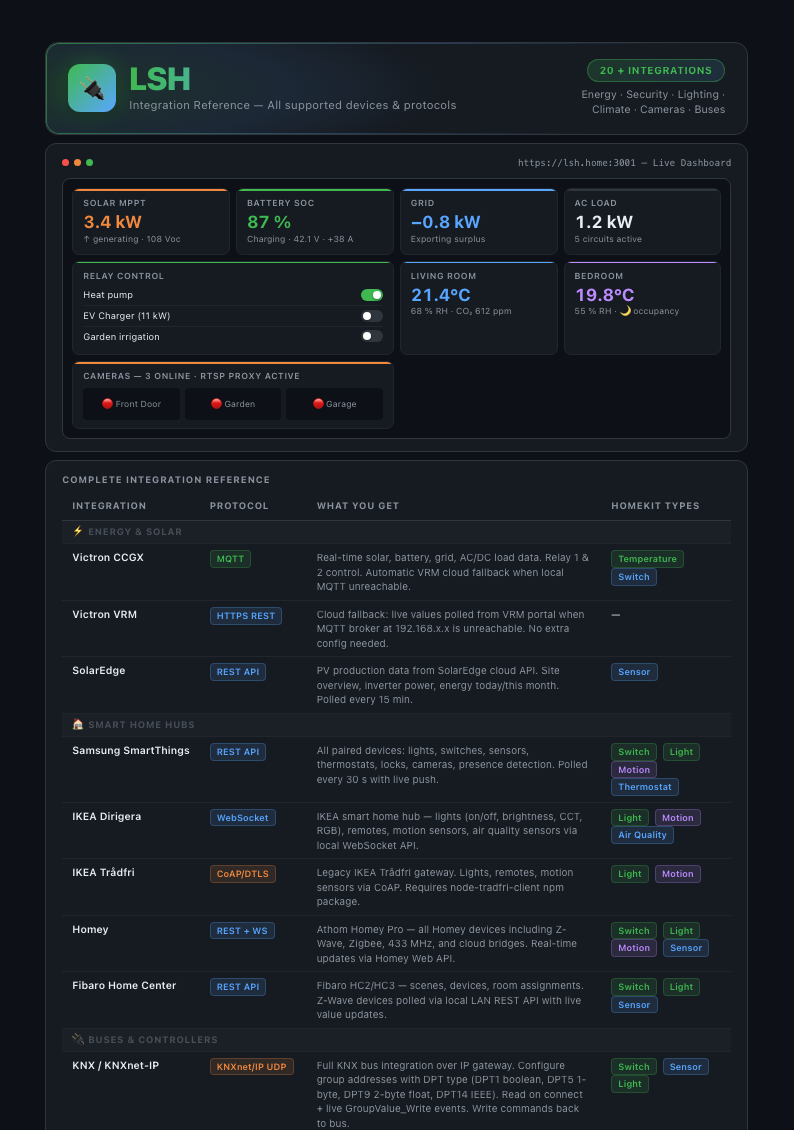
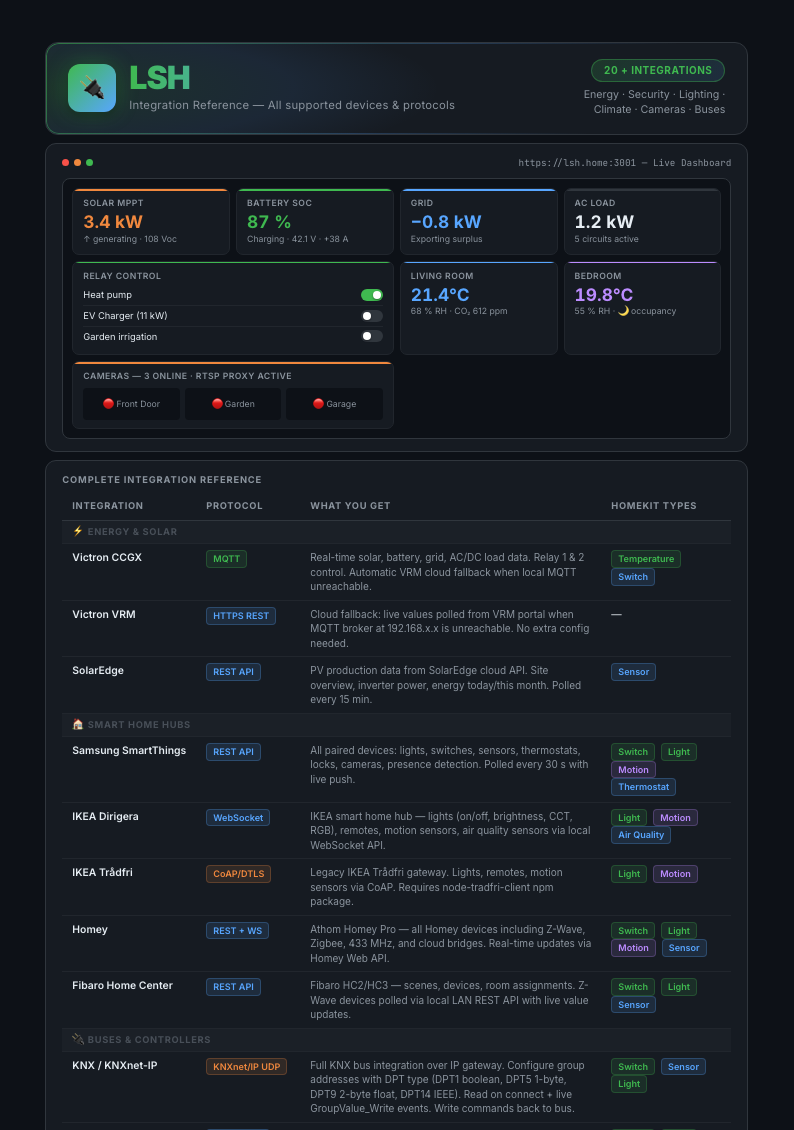
Add SWOT analysis page to leaflet PDF (page 4 of 4)

diff --git a/leaflet/lsh-leaflet.html b/leaflet/lsh-leaflet.html
@@ -907,7 +907,192 @@
 
   <div class="footer">
     <div><div class="footer-brand">LSH</div><p>Local Smart Home Platform</p></div>
-    <p style="font-size:7pt;color:var(--muted);text-align:center;">Open integration platform · Node.js 18+ · Raspberry Pi 4 / Linux<br>Page 3 of 3</p>
+    <p style="font-size:7pt;color:var(--muted);text-align:center;">Open integration platform · Node.js 18+ · Raspberry Pi 4 / Linux<br>Page 3 of 4</p>
+    <div class="footer-right">
+      <a href="mailto:[email redacted]">[email redacted]</a><br>
+      <span style="font-size:6.5pt;color:var(--dim);">© 2026 LSH Local Smart Home</span>
+    </div>
+  </div>
+
+</div>
+
+<!-- ════════════════════════════════════ PAGE 4 — SWOT ════════════════ -->
+<div class="page">
+
+  <div class="header">
+    <div class="logo-group">
+      <div class="logo-icon">📊</div>
+      <div class="logo-text">
+        <h1>LSH</h1>
+        <p>Strategic Analysis — SWOT</p>
+      </div>
+    </div>
+    <div class="header-right">
+      <div class="header-badge">Business Analysis</div>
+      <p class="header-tagline">Strengths · Weaknesses · Opportunities · Threats</p>
+    </div>
+  </div>
+
+  <!-- SWOT grid -->
+  <div style="display:grid;grid-template-columns:1fr 1fr;gap:9px;flex:1;">
+
+    <!-- STRENGTHS -->
+    <div style="background:var(--surf);border:1px solid var(--border);border-radius:12px;padding:15px 17px;position:relative;overflow:hidden;">
+      <div style="position:absolute;inset:0;border-radius:12px;padding:1px;background:linear-gradient(135deg,rgba(63,185,80,.6) 0%,rgba(63,185,80,.1) 60%,transparent 80%);-webkit-mask:linear-gradient(#fff 0 0) content-box,linear-gradient(#fff 0 0);-webkit-mask-composite:xor;mask-composite:exclude;pointer-events:none;"></div>
+      <div style="display:flex;align-items:center;gap:8px;margin-bottom:12px;">
+        <div style="width:30px;height:30px;border-radius:8px;background:linear-gradient(135deg,#3fb950,#1a8c40);display:flex;align-items:center;justify-content:center;font-size:16px;flex-shrink:0;">💪</div>
+        <div>
+          <div style="font-size:11pt;font-weight:800;color:var(--green);letter-spacing:-.3px;">Strengths</div>
+          <div style="font-size:7pt;color:var(--muted);text-transform:uppercase;letter-spacing:.06em;">Internal · Positive</div>
+        </div>
+      </div>
+      <div style="display:flex;flex-direction:column;gap:6px;">
+        <div style="display:flex;gap:8px;align-items:flex-start;padding:6px 8px;background:rgba(63,185,80,.06);border-radius:7px;border:1px solid rgba(63,185,80,.12);">
+          <span style="color:var(--green);font-size:10pt;flex-shrink:0;line-height:1.3;">✦</span>
+          <div><div style="font-size:8pt;font-weight:700;margin-bottom:1px;">Local-first, zero cloud dependency</div><div style="font-size:7.2pt;color:var(--muted);line-height:1.4;">All data stays on LAN. MQTT runs directly to hardware — no relay server, no account, works during internet outages.</div></div>
+        </div>
+        <div style="display:flex;gap:8px;align-items:flex-start;padding:6px 8px;background:rgba(63,185,80,.06);border-radius:7px;border:1px solid rgba(63,185,80,.12);">
+          <span style="color:var(--green);font-size:10pt;flex-shrink:0;line-height:1.3;">✦</span>
+          <div><div style="font-size:8pt;font-weight:700;margin-bottom:1px;">20+ integrations in a single process</div><div style="font-size:7.2pt;color:var(--muted);line-height:1.4;">~120 MB RAM footprint. No microservice sprawl, no Docker Compose with 12 containers — just <code>node server.js</code>.</div></div>
+        </div>
+        <div style="display:flex;gap:8px;align-items:flex-start;padding:6px 8px;background:rgba(63,185,80,.06);border-radius:7px;border:1px solid rgba(63,185,80,.12);">
+          <span style="color:var(--green);font-size:10pt;flex-shrink:0;line-height:1.3;">✦</span>
+          <div><div style="font-size:8pt;font-weight:700;margin-bottom:1px;">Victron Energy depth</div><div style="font-size:7.2pt;color:var(--muted);line-height:1.4;">Solar, battery SoC, grid, relay control — uniquely positioned for off-grid and solar installations. SolarEdge overlay included.</div></div>
+        </div>
+        <div style="display:flex;gap:8px;align-items:flex-start;padding:6px 8px;background:rgba(63,185,80,.06);border-radius:7px;border:1px solid rgba(63,185,80,.12);">
+          <span style="color:var(--green);font-size:10pt;flex-shrink:0;line-height:1.3;">✦</span>
+          <div><div style="font-size:8pt;font-weight:700;margin-bottom:1px;">Native Apple HomeKit bridge</div><div style="font-size:7.2pt;color:var(--muted);line-height:1.4;">Every sensor, switch, and camera auto-exposed. Unlimited accessories — survives restarts without re-pairing.</div></div>
+        </div>
+        <div style="display:flex;gap:8px;align-items:flex-start;padding:6px 8px;background:rgba(63,185,80,.06);border-radius:7px;border:1px solid rgba(63,185,80,.12);">
+          <span style="color:var(--green);font-size:10pt;flex-shrink:0;line-height:1.3;">✦</span>
+          <div><div style="font-size:8pt;font-weight:700;margin-bottom:1px;">Protocol breadth</div><div style="font-size:7.2pt;color:var(--muted);line-height:1.4;">MQTT, KNXnet/IP, Modbus TCP, REST, WebSocket, RTSP — standard protocols only, no proprietary SDKs.</div></div>
+        </div>
+        <div style="display:flex;gap:8px;align-items:flex-start;padding:6px 8px;background:rgba(63,185,80,.06);border-radius:7px;border:1px solid rgba(63,185,80,.12);">
+          <span style="color:var(--green);font-size:10pt;flex-shrink:0;line-height:1.3;">✦</span>
+          <div><div style="font-size:8pt;font-weight:700;margin-bottom:1px;">Settings UI — no YAML required</div><div style="font-size:7.2pt;color:var(--muted);line-height:1.4;">All integrations configured via browser forms with live connectivity tests. KNX group addresses, SmartBob topics, FFmpeg proxy — all point-and-click.</div></div>
+        </div>
+      </div>
+    </div>
+
+    <!-- WEAKNESSES -->
+    <div style="background:var(--surf);border:1px solid var(--border);border-radius:12px;padding:15px 17px;position:relative;overflow:hidden;">
+      <div style="position:absolute;inset:0;border-radius:12px;padding:1px;background:linear-gradient(135deg,rgba(248,81,73,.5) 0%,rgba(248,81,73,.1) 60%,transparent 80%);-webkit-mask:linear-gradient(#fff 0 0) content-box,linear-gradient(#fff 0 0);-webkit-mask-composite:xor;mask-composite:exclude;pointer-events:none;"></div>
+      <div style="display:flex;align-items:center;gap:8px;margin-bottom:12px;">
+        <div style="width:30px;height:30px;border-radius:8px;background:linear-gradient(135deg,#f85149,#a01c19);display:flex;align-items:center;justify-content:center;font-size:16px;flex-shrink:0;">⚠️</div>
+        <div>
+          <div style="font-size:11pt;font-weight:800;color:var(--red);letter-spacing:-.3px;">Weaknesses</div>
+          <div style="font-size:7pt;color:var(--muted);text-transform:uppercase;letter-spacing:.06em;">Internal · Negative</div>
+        </div>
+      </div>
+      <div style="display:flex;flex-direction:column;gap:6px;">
+        <div style="display:flex;gap:8px;align-items:flex-start;padding:6px 8px;background:rgba(248,81,73,.06);border-radius:7px;border:1px solid rgba(248,81,73,.12);">
+          <span style="color:var(--red);font-size:10pt;flex-shrink:0;line-height:1.3;">▲</span>
+          <div><div style="font-size:8pt;font-weight:700;margin-bottom:1px;">Technical setup required</div><div style="font-size:7.2pt;color:var(--muted);line-height:1.4;">No one-click installer or Docker Hub image. Requires Node.js, terminal comfort, and manual config.json editing for initial setup.</div></div>
+        </div>
+        <div style="display:flex;gap:8px;align-items:flex-start;padding:6px 8px;background:rgba(248,81,73,.06);border-radius:7px;border:1px solid rgba(248,81,73,.12);">
+          <span style="color:var(--red);font-size:10pt;flex-shrink:0;line-height:1.3;">▲</span>
+          <div><div style="font-size:8pt;font-weight:700;margin-bottom:1px;">No automation engine</div><div style="font-size:7.2pt;color:var(--muted);line-height:1.4;">No built-in rule or scene builder. Users must rely on external tools (Node-RED, cron, HomeKit automations) for time or condition-based triggers.</div></div>
+        </div>
+        <div style="display:flex;gap:8px;align-items:flex-start;padding:6px 8px;background:rgba(248,81,73,.06);border-radius:7px;border:1px solid rgba(248,81,73,.12);">
+          <span style="color:var(--red);font-size:10pt;flex-shrink:0;line-height:1.3;">▲</span>
+          <div><div style="font-size:8pt;font-weight:700;margin-bottom:1px;">No persistent history / charting</div><div style="font-size:7.2pt;color:var(--muted);line-height:1.4;">Live values only — no time-series database, no energy graphs over days or weeks. Historical data requires InfluxDB + Grafana sidecar.</div></div>
+        </div>
+        <div style="display:flex;gap:8px;align-items:flex-start;padding:6px 8px;background:rgba(248,81,73,.06);border-radius:7px;border:1px solid rgba(248,81,73,.12);">
+          <span style="color:var(--red);font-size:10pt;flex-shrink:0;line-height:1.3;">▲</span>
+          <div><div style="font-size:8pt;font-weight:700;margin-bottom:1px;">Single-node, no HA failover</div><div style="font-size:7.2pt;color:var(--muted);line-height:1.4;">One server failure = no dashboard, no HomeKit bridge. No clustering or standby replication supported.</div></div>
+        </div>
+        <div style="display:flex;gap:8px;align-items:flex-start;padding:6px 8px;background:rgba(248,81,73,.06);border-radius:7px;border:1px solid rgba(248,81,73,.12);">
+          <span style="color:var(--red);font-size:10pt;flex-shrink:0;line-height:1.3;">▲</span>
+          <div><div style="font-size:8pt;font-weight:700;margin-bottom:1px;">Cloud API fragility</div><div style="font-size:7.2pt;color:var(--muted);line-height:1.4;">SmartThings, LG ThinQ, and VRM integrations depend on vendor API stability. Unilateral breaking changes can silently disable features.</div></div>
+        </div>
+        <div style="display:flex;gap:8px;align-items:flex-start;padding:6px 8px;background:rgba(248,81,73,.06);border-radius:7px;border:1px solid rgba(248,81,73,.12);">
+          <span style="color:var(--red);font-size:10pt;flex-shrink:0;line-height:1.3;">▲</span>
+          <div><div style="font-size:8pt;font-weight:700;margin-bottom:1px;">Single maintainer bus factor</div><div style="font-size:7.2pt;color:var(--muted);line-height:1.4;">Platform continuity depends on one developer. No community governance, no contributor pipeline, no public issue tracker yet.</div></div>
+        </div>
+      </div>
+    </div>
+
+    <!-- OPPORTUNITIES -->
+    <div style="background:var(--surf);border:1px solid var(--border);border-radius:12px;padding:15px 17px;position:relative;overflow:hidden;">
+      <div style="position:absolute;inset:0;border-radius:12px;padding:1px;background:linear-gradient(135deg,rgba(88,166,255,.5) 0%,rgba(88,166,255,.1) 60%,transparent 80%);-webkit-mask:linear-gradient(#fff 0 0) content-box,linear-gradient(#fff 0 0);-webkit-mask-composite:xor;mask-composite:exclude;pointer-events:none;"></div>
+      <div style="display:flex;align-items:center;gap:8px;margin-bottom:12px;">
+        <div style="width:30px;height:30px;border-radius:8px;background:linear-gradient(135deg,#58a6ff,#0d63c9);display:flex;align-items:center;justify-content:center;font-size:16px;flex-shrink:0;">🚀</div>
+        <div>
+          <div style="font-size:11pt;font-weight:800;color:var(--blue);letter-spacing:-.3px;">Opportunities</div>
+          <div style="font-size:7pt;color:var(--muted);text-transform:uppercase;letter-spacing:.06em;">External · Positive</div>
+        </div>
+      </div>
+      <div style="display:flex;flex-direction:column;gap:6px;">
+        <div style="display:flex;gap:8px;align-items:flex-start;padding:6px 8px;background:rgba(88,166,255,.06);border-radius:7px;border:1px solid rgba(88,166,255,.12);">
+          <span style="color:var(--blue);font-size:10pt;flex-shrink:0;line-height:1.3;">◆</span>
+          <div><div style="font-size:8pt;font-weight:700;margin-bottom:1px;">Privacy-conscious market growth</div><div style="font-size:7.2pt;color:var(--muted);line-height:1.4;">Users increasingly reject cloud-dependent hubs after outages (SmartThings 2022, Google Nest 2023). LSH's local-first story is a direct answer.</div></div>
+        </div>
+        <div style="display:flex;gap:8px;align-items:flex-start;padding:6px 8px;background:rgba(88,166,255,.06);border-radius:7px;border:1px solid rgba(88,166,255,.12);">
+          <span style="color:var(--blue);font-size:10pt;flex-shrink:0;line-height:1.3;">◆</span>
+          <div><div style="font-size:8pt;font-weight:700;margin-bottom:1px;">Victron / solar / EV adoption rising</div><div style="font-size:7.2pt;color:var(--muted);line-height:1.4;">Victron Energy is the dominant brand in off-grid solar. EV charger integration + battery relay control gives LSH a unique energy management angle no competitor covers.</div></div>
+        </div>
+        <div style="display:flex;gap:8px;align-items:flex-start;padding:6px 8px;background:rgba(88,166,255,.06);border-radius:7px;border:1px solid rgba(88,166,255,.12);">
+          <span style="color:var(--blue);font-size:10pt;flex-shrink:0;line-height:1.3;">◆</span>
+          <div><div style="font-size:8pt;font-weight:700;margin-bottom:1px;">KNX building automation market</div><div style="font-size:7.2pt;color:var(--muted);line-height:1.4;">KNX is the dominant bus in European commercial buildings. First-class KNXnet/IP support opens the professional integrator and architect market.</div></div>
+        </div>
+        <div style="display:flex;gap:8px;align-items:flex-start;padding:6px 8px;background:rgba(88,166,255,.06);border-radius:7px;border:1px solid rgba(88,166,255,.12);">
+          <span style="color:var(--blue);font-size:10pt;flex-shrink:0;line-height:1.3;">◆</span>
+          <div><div style="font-size:8pt;font-weight:700;margin-bottom:1px;">Docker image + NAS packaging</div><div style="font-size:7.2pt;color:var(--muted);line-height:1.4;">A published Docker Hub image and Synology/Unraid community package would unlock a large segment of homelab users who deploy from package managers.</div></div>
+        </div>
+        <div style="display:flex;gap:8px;align-items:flex-start;padding:6px 8px;background:rgba(88,166,255,.06);border-radius:7px;border:1px solid rgba(88,166,255,.12);">
+          <span style="color:var(--blue);font-size:10pt;flex-shrink:0;line-height:1.3;">◆</span>
+          <div><div style="font-size:8pt;font-weight:700;margin-bottom:1px;">Commercial integrator channel</div><div style="font-size:7.2pt;color:var(--muted);line-height:1.4;">KNX + Victron + Loxone overlap with professional AV and building automation installers — a channel underserved by Home Assistant's DIY-first positioning.</div></div>
+        </div>
+        <div style="display:flex;gap:8px;align-items:flex-start;padding:6px 8px;background:rgba(88,166,255,.06);border-radius:7px;border:1px solid rgba(88,166,255,.12);">
+          <span style="color:var(--blue);font-size:10pt;flex-shrink:0;line-height:1.3;">◆</span>
+          <div><div style="font-size:8pt;font-weight:700;margin-bottom:1px;">Automation engine add-on</div><div style="font-size:7.2pt;color:var(--muted);line-height:1.4;">Adding a Node-RED-style visual flow builder or a simple rule engine (if sensor X &gt; value → command Y) would significantly expand the non-technical user segment.</div></div>
+        </div>
+      </div>
+    </div>
+
+    <!-- THREATS -->
+    <div style="background:var(--surf);border:1px solid var(--border);border-radius:12px;padding:15px 17px;position:relative;overflow:hidden;">
+      <div style="position:absolute;inset:0;border-radius:12px;padding:1px;background:linear-gradient(135deg,rgba(240,136,62,.5) 0%,rgba(240,136,62,.1) 60%,transparent 80%);-webkit-mask:linear-gradient(#fff 0 0) content-box,linear-gradient(#fff 0 0);-webkit-mask-composite:xor;mask-composite:exclude;pointer-events:none;"></div>
+      <div style="display:flex;align-items:center;gap:8px;margin-bottom:12px;">
+        <div style="width:30px;height:30px;border-radius:8px;background:linear-gradient(135deg,#f0883e,#a05010);display:flex;align-items:center;justify-content:center;font-size:16px;flex-shrink:0;">🔴</div>
+        <div>
+          <div style="font-size:11pt;font-weight:800;color:var(--orange);letter-spacing:-.3px;">Threats</div>
+          <div style="font-size:7pt;color:var(--muted);text-transform:uppercase;letter-spacing:.06em;">External · Negative</div>
+        </div>
+      </div>
+      <div style="display:flex;flex-direction:column;gap:6px;">
+        <div style="display:flex;gap:8px;align-items:flex-start;padding:6px 8px;background:rgba(240,136,62,.06);border-radius:7px;border:1px solid rgba(240,136,62,.12);">
+          <span style="color:var(--orange);font-size:10pt;flex-shrink:0;line-height:1.3;">●</span>
+          <div><div style="font-size:8pt;font-weight:700;margin-bottom:1px;">Home Assistant dominance</div><div style="font-size:7.2pt;color:var(--muted);line-height:1.4;">Enormous ecosystem (3,000+ integrations), massive community, strong brand, and well-funded Nabu Casa behind it. Mindshare is very hard to displace.</div></div>
+        </div>
+        <div style="display:flex;gap:8px;align-items:flex-start;padding:6px 8px;background:rgba(240,136,62,.06);border-radius:7px;border:1px solid rgba(240,136,62,.12);">
+          <span style="color:var(--orange);font-size:10pt;flex-shrink:0;line-height:1.3;">●</span>
+          <div><div style="font-size:8pt;font-weight:700;margin-bottom:1px;">Vendor API changes</div><div style="font-size:7.2pt;color:var(--muted);line-height:1.4;">SmartThings, LG ThinQ, and VRM can revoke or break APIs without notice. No contractual SLA between LSH and any vendor platform.</div></div>
+        </div>
+        <div style="display:flex;gap:8px;align-items:flex-start;padding:6px 8px;background:rgba(240,136,62,.06);border-radius:7px;border:1px solid rgba(240,136,62,.12);">
+          <span style="color:var(--orange);font-size:10pt;flex-shrink:0;line-height:1.3;">●</span>
+          <div><div style="font-size:8pt;font-weight:700;margin-bottom:1px;">Matter / Thread commoditisation</div><div style="font-size:7.2pt;color:var(--muted);line-height:1.4;">If Matter becomes universal, Apple Home and Google Home absorb device control natively — reducing the differentiation of multi-protocol middleware like LSH.</div></div>
+        </div>
+        <div style="display:flex;gap:8px;align-items:flex-start;padding:6px 8px;background:rgba(240,136,62,.06);border-radius:7px;border:1px solid rgba(240,136,62,.12);">
+          <span style="color:var(--orange);font-size:10pt;flex-shrink:0;line-height:1.3;">●</span>
+          <div><div style="font-size:8pt;font-weight:700;margin-bottom:1px;">Security exposure at network edge</div><div style="font-size:7.2pt;color:var(--muted);line-height:1.4;">Self-hosted dashboards port-forwarded to the internet are a common attack vector. Misconfigured TLS or weak passwords can expose the entire home network.</div></div>
+        </div>
+        <div style="display:flex;gap:8px;align-items:flex-start;padding:6px 8px;background:rgba(240,136,62,.06);border-radius:7px;border:1px solid rgba(240,136,62,.12);">
+          <span style="color:var(--orange);font-size:10pt;flex-shrink:0;line-height:1.3;">●</span>
+          <div><div style="font-size:8pt;font-weight:700;margin-bottom:1px;">Competing open platforms</div><div style="font-size:7.2pt;color:var(--muted);line-height:1.4;">openHAB, Domoticz, ioBroker, and Gladys cover overlapping protocol breadth with established communities and package registries.</div></div>
+        </div>
+        <div style="display:flex;gap:8px;align-items:flex-start;padding:6px 8px;background:rgba(240,136,62,.06);border-radius:7px;border:1px solid rgba(240,136,62,.12);">
+          <span style="color:var(--orange);font-size:10pt;flex-shrink:0;line-height:1.3;">●</span>
+          <div><div style="font-size:8pt;font-weight:700;margin-bottom:1px;">HAP-nodejs / HomeKit spec changes</div><div style="font-size:7.2pt;color:var(--muted);line-height:1.4;">The HAP bridge relies on a reverse-engineered Apple spec. Apple can introduce MFi restrictions or firmware changes that break the bridge without warning.</div></div>
+        </div>
+      </div>
+    </div>
+
+  </div>
+
+  <div class="footer">
+    <div><div class="footer-brand">LSH</div><p>Local Smart Home Platform</p></div>
+    <p style="font-size:7pt;color:var(--muted);text-align:center;">Strategic analysis · 2026 · Page 4 of 4</p>
     <div class="footer-right">
       <a href="mailto:[email redacted]">[email redacted]</a><br>
       <span style="font-size:6.5pt;color:var(--dim);">© 2026 LSH Local Smart Home</span>

diff --git a/README.md b/README.md
@@ -5,6 +5,7 @@
 [![Page 1](leaflet/pages/page1.png)](leaflet/lsh-leaflet.pdf)
 [![Page 2](leaflet/pages/page2.png)](leaflet/lsh-leaflet.pdf)
 [![Page 3](leaflet/pages/page3.png)](leaflet/lsh-leaflet.pdf)
+[![Page 4 — SWOT](leaflet/pages/page4.png)](leaflet/lsh-leaflet.pdf)
 
 📄 **[Download PDF](leaflet/lsh-leaflet.pdf)** — features, integrations &amp; REST API reference
 